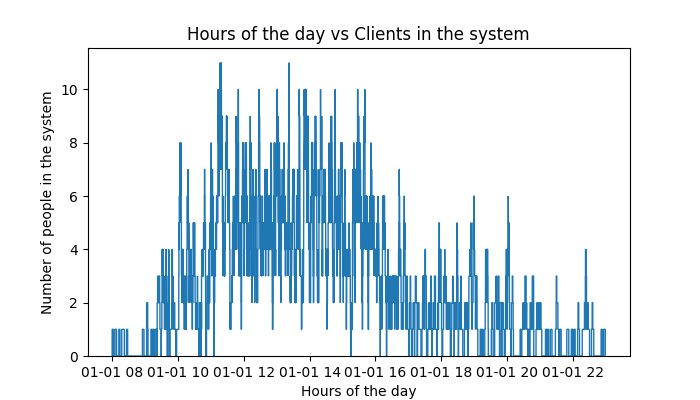
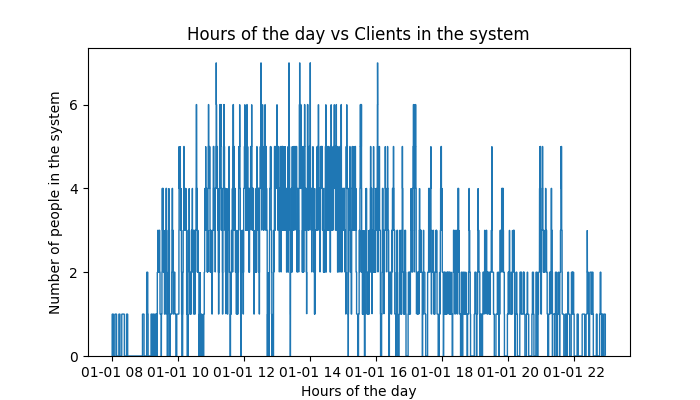
added user parameters

Changed region(s): [[0.15, 0.15, 0.87, 0.96], [0.06, 0.21, 0.12, 0.81]]

diff --git a/helpers/Probability.py b/helpers/Probability.py
@@ -12,23 +12,26 @@ import numpy as np
 import randomname
 
 
-
 class Probabilities:
     """
     Given specific parameters, return a probability for an event to occur
     """
+    client_patience_ex = None
+    client_patience_var = None
 
     def __init__(self, time_of_day, date: datetime.datetime):
         self.time_of_day = time_of_day
         self.date = date
 
     @staticmethod
-    def max_client_patience(expected=10.0, variance=1.5) -> datetime.timedelta:
+    def max_client_patience() -> datetime.timedelta:
         """
         Generate amount of time, if the client has to wait more than that time, abandon the queue
         Assuming client type and client sector are not correlated
         @return: max_wait_time:maximum wait time a client is willing to wait for a service before abandoning the queue
         """
+        expected = Probabilities.client_patience_ex
+        variance = Probabilities.client_patience_var
         max_wait_time = datetime.timedelta(minutes=np.random.normal(expected, variance))
         return max_wait_time
 
@@ -175,8 +178,6 @@ class Probabilities:
             return np.random.exponential(1 / (20 * weather_factor * 1.02 ** rest_queue_len))
 
         else:
-            n_arrivals = 120
-
             return np.random.exponential(1 / 35)
 
     @staticmethod

diff --git a/callcenter/CallCenter.py b/callcenter/CallCenter.py
@@ -54,7 +54,8 @@ class CallCenter:
         self.n_chat_agents = int(self.user_parameters.get("Number of Chat Agents"))
         self.n_call_agents = int(self.user_parameters.get("Number of Call Agents"))
         self.starting_number_of_agents = self.n_chat_agents + self.n_call_agents
-
+        Probabilities.client_patience_ex = float(self.user_parameters.get("Client Patience ~ E(X)"))
+        Probabilities.client_patience_var = float(self.user_parameters.get("Client Patience ~ V(X)"))
         if self.mode == 'SeparatePool':
             percentage_of_rest_agents = 0.2  # 20% of the agents will answer calls from restaurants
             self.n_rest_agents = math.ceil(
